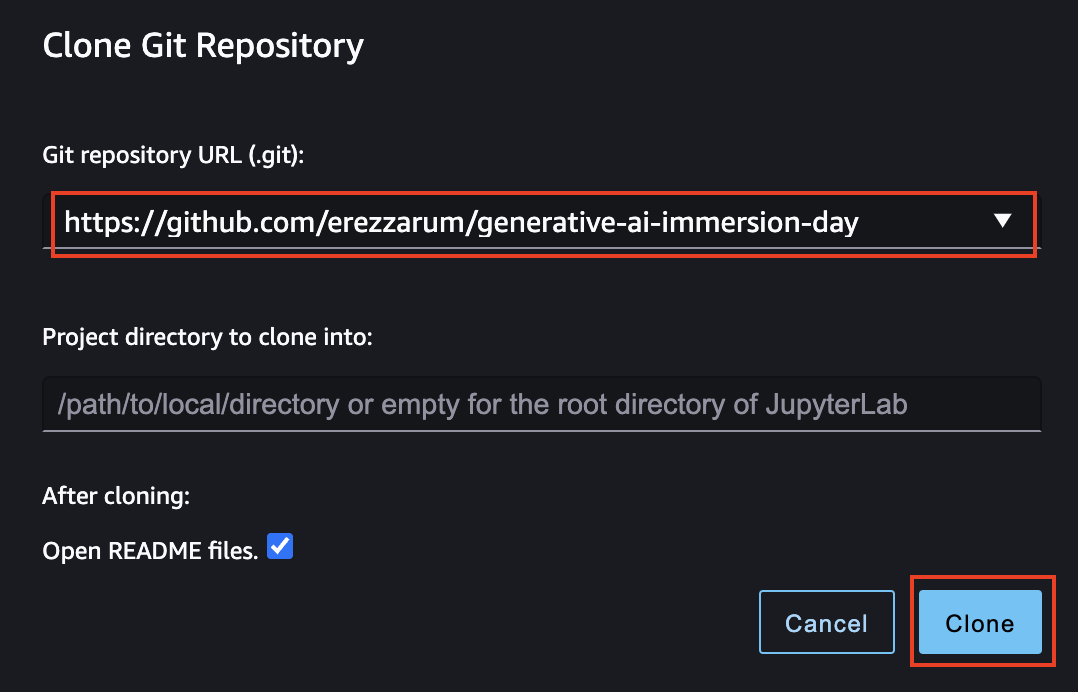
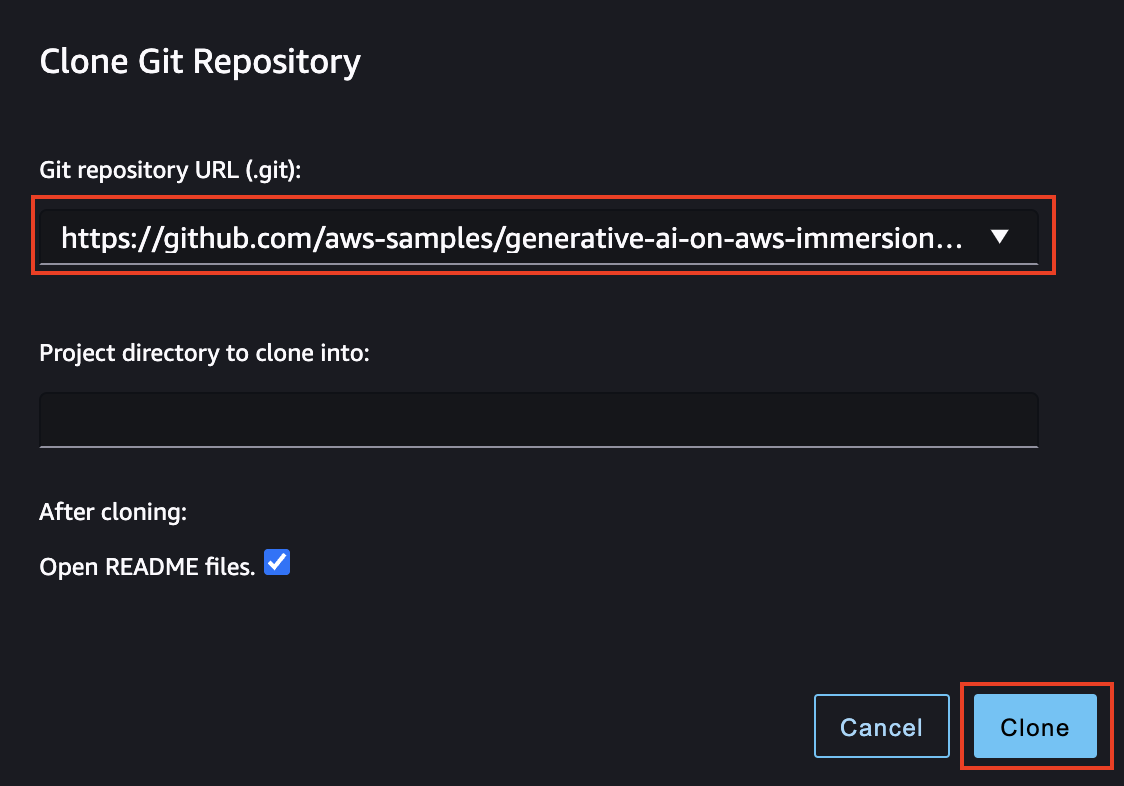
Update repo reference

diff --git a/README.md b/README.md
@@ -1,17 +1,5 @@
 # Generative AI Immersion Day
 
-This workshop is set up following the popular AWS Immersion Day format. It means to provide guidance on how to get started with Generative AI on AWS. The Immersion Day is split up into the following three blocks, consisting of a theory section covered by slides as well of a hands-on lab each:
-- Introduction Generative AI & Large Language Models, Large Language Model deployment & inference optimization
-- Large Language Model finetuning
-- Introduction Visual Foundation Models, deployment & inference optimization of Stable Diffusion
-
-The repository is structured as follows: The slides can be found in the GenerativeAIImmersionDayPresentationDeck.pdf residing on root level of the repository. Similarily, the labs can be found in respectively named directories:
-- Lab 1 - Hosting Large Language Models can be found in the lab1 directory. Start with the notebook gpt-j-notebook-full.ipynb.
-- Lab 2 - Finetuning Large Language Models can be found in the lab2 directory. Start with the notebook fine-tuning.ipynb.
-- Lab 3 - Hosting Stable Diffusion can be found in the lab3 directory. Start with the notebook JumpStart_Stable_Diffusion_Inference_Only.ipynb.
-
-
-
 For conducting the labs, some basic account setup steps are required. They are described subsequently in what follows.
 
 # Setup
@@ -112,7 +100,7 @@ In the SageMaker Studio menu bar, click on Git and then on the Clone Git Reposit
 
 In the Git repository URL, enter the repository below and click Clone.
 ```
-https://github.com/erezzarum/generative-ai-immersion-day
+https://github.com/aws-samples/generative-ai-on-aws-immersion-day.git
 ```
 ![Git Clone](./img/sagemakerStudioGitClone-02.png)
 
